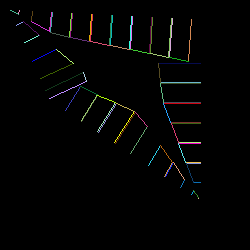
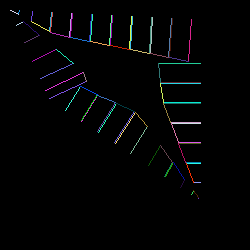
Take two on buildings code - train refactoring

diff --git a/src/city_builder.js b/src/city_builder.js
@@ -61,35 +61,35 @@ const distance_between = function(x1, y1, x2, y2) {
 exports.distance_between = distance_between
 
 const shorten_line = function(line, length) {
-  // From: https://stackoverflow.com/a/24377363/1064619
-  // Determine line lengths
-  var xlen = line.geometry.end.x - line.geometry.start.x;
-  var ylen = line.geometry.end.y - line.geometry.start.y;
+    // From: https://stackoverflow.com/a/24377363/1064619
+    // Determine line lengths
+    var xlen = line.geometry.end.x - line.geometry.start.x;
+    var ylen = line.geometry.end.y - line.geometry.start.y;
 
-  // Determine hypotenuse length
-  var hlen = Math.sqrt(Math.pow(xlen,2) + Math.pow(ylen,2));
+    // Determine hypotenuse length
+    var hlen = Math.sqrt(Math.pow(xlen,2) + Math.pow(ylen,2));
 
-  // The variable identifying the length of the `shortened` line.
-  // In this case 50 units.
-  var smallerLen = length;
+    // The variable identifying the length of the `shortened` line.
+    // In this case 50 units.
+    var smallerLen = length;
 
-  // Determine the ratio between they shortened value and the full hypotenuse.
-  var ratio = smallerLen / hlen;
+    // Determine the ratio between they shortened value and the full hypotenuse.
+    var ratio = smallerLen / hlen;
 
-  var smallerXLen = xlen * ratio;
-  var smallerYLen = ylen * ratio;
+    var smallerXLen = xlen * ratio;
+    var smallerYLen = ylen * ratio;
 
-  // The new X point is the starting x plus the smaller x length.
-  var smallerX = line.geometry.start.x + smallerXLen;
+    // The new X point is the starting x plus the smaller x length.
+    var smallerX = line.geometry.start.x + smallerXLen;
 
-  // Same goes for the new Y.
-  var smallerY = line.geometry.start.y + smallerYLen;
+    // Same goes for the new Y.
+    var smallerY = line.geometry.start.y + smallerYLen;
 
-  return {geometry: {start: {x: line.geometry.start.x,
-                             y: line.geometry.start.y},
-                     end:   {x: Math.floor(smallerX),
-                             y: Math.floor(smallerY)}}
-                            }
+    return {geometry: {start: {x: line.geometry.start.x,
+                              y: line.geometry.start.y},
+                       end:   {x: Math.floor(smallerX),
+                              y: Math.floor(smallerY)}}
+                              }
 }
 
 exports.shorten_line = shorten_line;
@@ -149,77 +149,128 @@ const inside_lot = function(line, lot, edge_index) {
 
 exports.inside_lot = inside_lot;
 
-const add_building = function(lot_edges, edge_index, from, to) {
-  try {
-    // let size = 20
-    const magic = 1000 // Far off distance for end of right angle line
+// const add_building = function(lot_edges, edge_index, from, to) {
+//   // try {
+//     // let size = 20
+//     const magic = 5000 // Far off distance for end of right angle line
 
-    let building = []
+//     let building = []
 
-    // Attempt to draw the edge of a building as a right angle
-    // from the edge of the lot
+//     // Attempt to draw the edge of a building as a right angle
+//     // from the edge of the lot
 
-    let perps = right_angle_line(lot_edges[edge_index], magic, from)
-    console.log('right angle lines from lot edge:' + perps)
-    // Find out which of the two right angle lines
-    // is heading inside the lot?
-    let perp_idx = 0
-    let hits = inside_lot(perps[0], lot_edges, edge_index)
-    if( hits === false) {
-      console.log('line is outside lot')
-      perp_idx = 1
-      hits = inside_lot(perps[1], lot_edges, edge_index)
-    } else {
-      console.log('line is inside lot')
-    }
-    // building.push(perps[perp_idx])
-    let first_line = {geometry: {start: perps[perp_idx].geometry.start, end: hits[0]}}
-    console.log('first_line:' + JSON.stringify(first_line))
-    // // Shorten line so it fits inside lot
-    // building.push(first_line)
-    // console.log(first_line.geometry.start.x,
-    //             first_line.geometry.start.y,      
-    //             hits[0].x,
-    //             hits[0].y)
-    
-    let length = distance_between(first_line.geometry.start.x,
-                                  first_line.geometry.start.y,      
-                                  first_line.geometry.end.x,
-                                  first_line.geometry.end.y) / 4
+//     let perps = right_angle_line(lot_edges[edge_index], magic, from)
+//     // console.log('right angle lines from lot edge:' + perps)
+//     // Find out which of the two right angle lines
+//     // is heading inside the lot?
+//     let perp_idx = 0
+//     let hits = inside_lot(perps[0], lot_edges, edge_index)
+//     if( hits === false) {
+//       // console.log('line is outside lot')
+//       perp_idx = 1
+//       hits = inside_lot(perps[1], lot_edges, edge_index)
+//     } else {
+//       // console.log('line is inside lot')
+//     }
+//     // building.push(perps[perp_idx])
+//     let first_line = {geometry: {start: perps[perp_idx].geometry.start, end: hits[0]}}
+//     console.log(JSON.stringify(first_line))
+//     let length = 10 // distance_between(first_line.geometry.start.x,
+//     //                               first_line.geometry.start.y,      
+//     //                               first_line.geometry.end.x,
+//     //                               first_line.geometry.end.y) / 4
 
-    building.push(shorten_line(first_line, length))
+//     building.push(shorten_line(first_line, length))
 
-    // Get second right angle from lot edge
+//     // Get second right angle from lot edge
 
-    perps = right_angle_line(lot_edges[edge_index], magic, to)
+//     perps = right_angle_line(lot_edges[edge_index], magic, to)
   
-    // Which one is inside lot?
-    perp_idx = 0
-    hits = inside_lot(perps[0], lot_edges, edge_index)
-    if( hits === false) {
-      perp_idx = 1
-      hits = inside_lot(perps[1], lot_edges, edge_index)
+//     // Which one is inside lot?
+//     perp_idx = 0
+//     hits = inside_lot(perps[0], lot_edges, edge_index)
+//     if( hits === false) {
+//       perp_idx = 1
+//       hits = inside_lot(perps[1], lot_edges, edge_index)
+//     }
+//     let second_line = {geometry: {start: perps[perp_idx].geometry.start, end: hits[0]}}
+//     console.log(second_line)
+//     console.log(hits)    
+//     length = 10 // distance_between(second_line.geometry.start.x,
+//     //   second_line.geometry.start.y,      
+//     //   second_line.geometry.end.x,
+//     //   second_line.geometry.end.y) / 4
+
+//     building.push(shorten_line(second_line, length))
+
+//     // Join them together
+
+//     building.push({geometry: {start: building[0].geometry.end,
+//                               end:   building[1].geometry.end}})  
+
+//     return building
+//   // }
+//   // catch(err) {
+//   //   console.log('ERROR:' + err + ' processing ' + JSON.stringify(lot_edges))
+//   // } 
+// }
+
+const add_building = function(lot_edges, edge_index, start, end) {
+
+  const far_away = 1000;
+
+  function building_right_angle(edge, edge_index, far_away, start) {
+    // Get right angles along the lot edge
+    const right_angle_lines = right_angle_line(edge, far_away, start)
+
+    // Test if line one is inside the lot
+    const left_hits = inside_lot(right_angle_lines[0], lot_edges, edge_index)
+    if (left_hits.length > 0) {
+
+      let inside_line = {geometry: {start: right_angle_lines[0].geometry.start, 
+                                    end:   left_hits[0]}}
+      let length = distance_between(inside_line.geometry.start.x,
+                                    inside_line.geometry.start.y,      
+                                    inside_line.geometry.end.x,
+                                    inside_line.geometry.end.y) / 4
+  
+      return shorten_line(inside_line, length)
+  
+    } else {
+      const right_hits = inside_lot(right_angle_lines[1], lot_edges, edge_index)
+      if (right_hits.length > 0) {
+
+        let inside_line = {geometry: {start: right_angle_lines[1].geometry.start, 
+                                      end:   right_hits[0]}}
+        let length = distance_between(inside_line.geometry.start.x,
+                                      inside_line.geometry.start.y,      
+                                      inside_line.geometry.end.x,
+                                      inside_line.geometry.end.y) / 4
+    
+        return shorten_line(inside_line, length)
+    
+      }
     }
-
-    let second_line = {geometry: {start: perps[perp_idx].geometry.start, end: hits[0]}}
-
-    length = distance_between(second_line.geometry.start.x,
-      second_line.geometry.start.y,      
-      second_line.geometry.end.x,
-      second_line.geometry.end.y) / 4
-
-    building.push(shorten_line(second_line, length))
-
-    // Join them together
-
-    building.push({geometry: {start: building[0].geometry.end,
-                              end:   building[1].geometry.end}})  
-
-    return building
   }
-  catch(err) {
-    console.log(err + 'processing' + JSON.stringify(lot_edges))
-  } 
+  let building = []
+  const left_line = building_right_angle(lot_edges[edge_index], edge_index, far_away, start)
+  if (left_line !== undefined) {
+    building.push(left_line)
+  }
+
+  const right_line = building_right_angle(lot_edges[edge_index], edge_index, far_away, end)
+  if (right_line !== undefined) {
+    building.push(right_line)
+  }
+
+  if (left_line !== undefined && right_line !== undefined) {
+    building.push({geometry: {start: left_line.geometry.end,
+                              end:   right_line.geometry.end}})  
+
+  }
+
+  return(building)
+
 }
 
 exports.add_building = add_building
@@ -237,15 +288,15 @@ const add_buildings = function(lot_edges, size) {
     let end = size
     do {
       const building = add_building(lot_edges, i, start, end)
-      if (!intersects(building, buildings)) {
-        buildings = buildings.concat(building)
-      }
+      // if (!intersects(building, buildings)) {
+      //   buildings = buildings.concat(building)
+      // }
+      buildings = buildings.concat(building)
       start = end + 1
-      end += 20
+      end += size
     } while(end <= length);
 
   })
-
   return buildings;
 }
 

diff --git a/test/city_builder.test.js b/test/city_builder.test.js
@@ -1266,8 +1266,77 @@ it('closes an open lot', async() => {
 
 it('deals with this wild one', async() => {
 
-  const lot_edges = [{"id":3773,"street_id":297,"geometry":{"start":{"x":596,"y":249},"end":{"x":582,"y":220}}},{"id":3767,"street_id":296,"geometry":{"start":{"x":582,"y":220},"end":{"x":580,"y":213}}},{"id":3774,"street_id":297,"geometry":{"start":{"x":596,"y":249},"end":{"x":578,"y":211}}},{"id":3645,"street_id":279,"geometry":{"start":{"x":579,"y":212},"end":{"x":576,"y":211}}},{"id":3644,"street_id":279,"geometry":{"start":{"x":579,"y":212},"end":{"x":578,"y":211}}}]
-  await render_square(lot_edges, 2000, "wild_too.png");
+  const lot_edges = [{"id":2994,"street_id":243,"geometry":{"start":{"x":1174,"y":857},"end":{"x":908,"y":931}}},{"id":3142,"street_id":263,"geometry":{"start":{"x":1174,"y":857},"end":{"x":1461,"y":1231}}},{"id":2782,"street_id":224,"geometry":{"start":{"x":1461,"y":1231},"end":{"x":799,"y":1150}}},{"geometry":{"start":{"x":908,"y":931},"end":{"x":799,"y":1150}}}]
+  const size = 20
+  const far_away = 1000
+  let buildings = []
+
+  function building_right_angle(edge, edge_index, far_away, start) {
+      // Get right angles along the lot edge
+      const right_angle_lines = right_angle_line(edge, far_away, start)
+
+      // Test if line one is inside the lot
+      const left_hits = inside_lot(right_angle_lines[0], lot_edges, edge_index)
+      if (left_hits.length > 0) {
+
+        let inside_line = {geometry: {start: right_angle_lines[0].geometry.start, 
+                                      end:   left_hits[0]}}
+        let length = distance_between(inside_line.geometry.start.x,
+                                      inside_line.geometry.start.y,      
+                                      inside_line.geometry.end.x,
+                                      inside_line.geometry.end.y) / 4
+    
+        return shorten_line(inside_line, length)
+    
+      } else {
+        const right_hits = inside_lot(right_angle_lines[1], lot_edges, edge_index)
+        if (right_hits.length > 0) {
+  
+          let inside_line = {geometry: {start: right_angle_lines[1].geometry.start, 
+                                        end:   right_hits[0]}}
+          let length = distance_between(inside_line.geometry.start.x,
+                                        inside_line.geometry.start.y,      
+                                        inside_line.geometry.end.x,
+                                        inside_line.geometry.end.y) / 4
+      
+          return shorten_line(inside_line, length)
+      
+        }
+      }
+
+  }
+  lot_edges.forEach((edge, edge_index) => {
+
+    const length = distance_between(edge.geometry.start.x,
+                                      edge.geometry.start.y,
+                                      edge.geometry.end.x,
+                                      edge.geometry.end.y)
+    let start = 10
+    let end = 2
+    do {
+
+      const left_line = building_right_angle(edge, edge_index, far_away, start)
+      if (left_line !== undefined) {
+        buildings.push(left_line)
+      }
+
+      const right_line = building_right_angle(edge, edge_index, far_away, end)
+      if (right_line !== undefined) {
+        buildings.push(right_line)
+      }
+
+      if (left_line !== undefined && right_line !== undefined) {
+        buildings.push({geometry: {start: left_line.geometry.end,
+                                  end:   right_line.geometry.end}})  
+
+      }
+
+      start = end + 1
+      end += size
+    } while(end <= length);
+
+  })
+  await render_square(buildings, 2000, "wild_too.png");
 
 })
 
